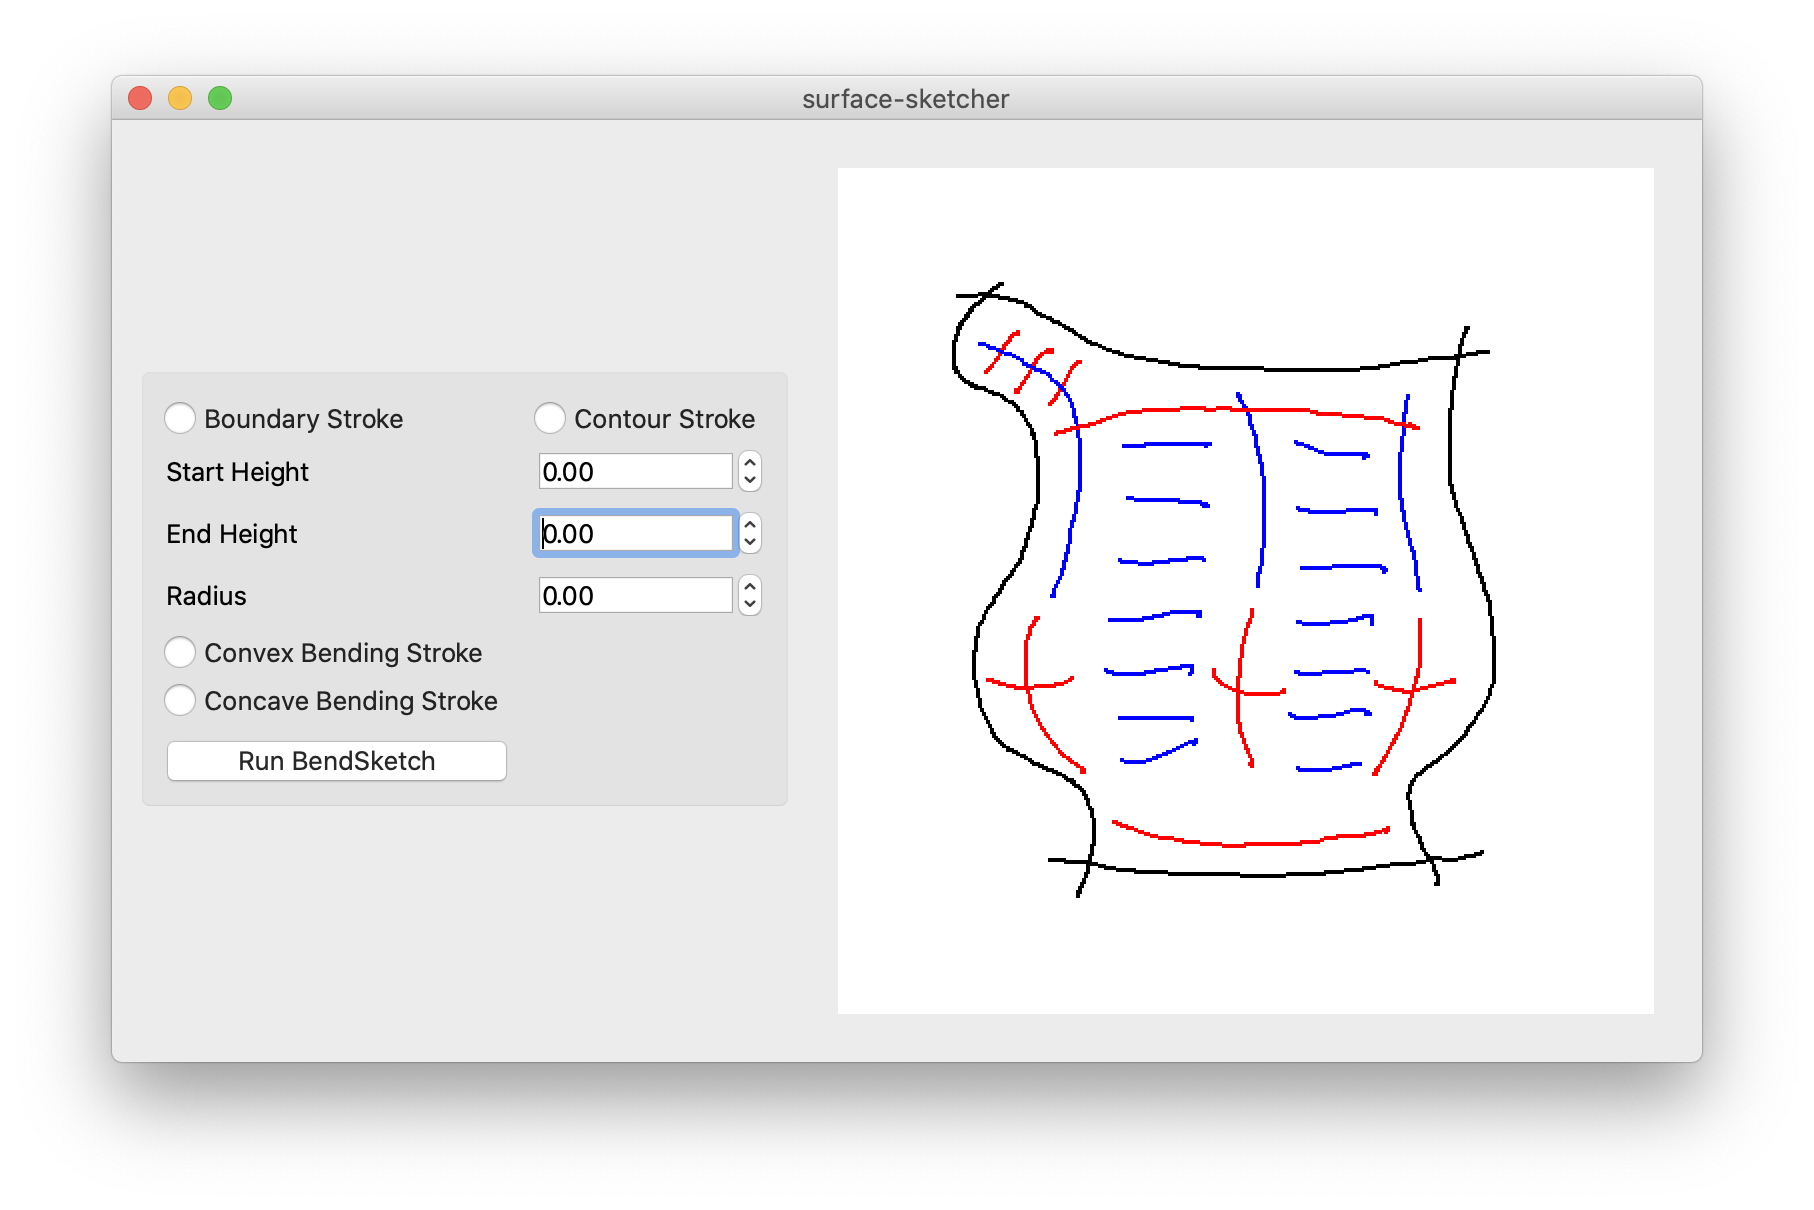
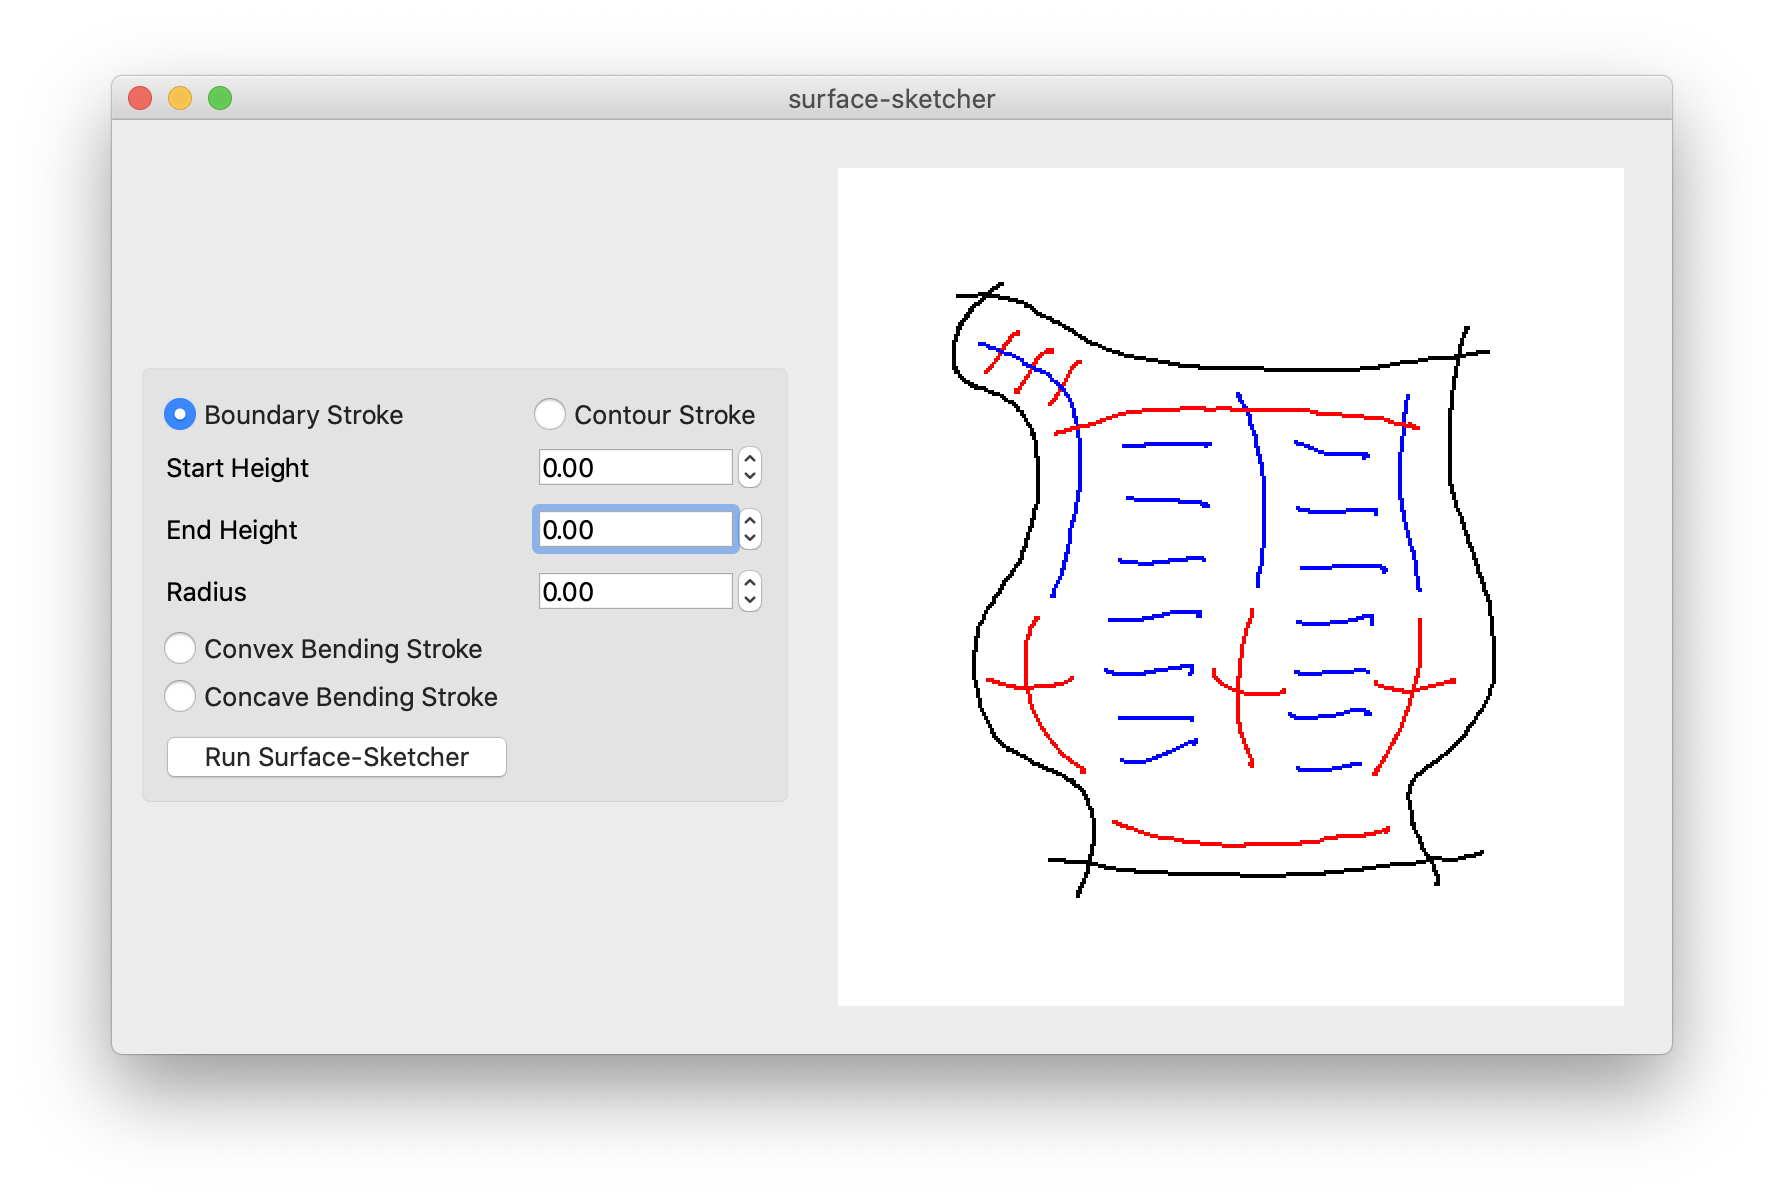
changed name to surface-sketcher

diff --git a/mainwindow.cpp b/mainwindow.cpp
@@ -29,7 +29,7 @@ MainWindow::~MainWindow()
 }
 
 
-void MainWindow::runBendsketch() {
+void MainWindow::runSurfaceSketcher() {
     Pipeline::runPipelineScribble(ui->scribbleArea->getSketchData());
 }
 
@@ -130,8 +130,8 @@ void MainWindow::createActions()
     setToConcave = new QAction(tr("&Concave Bending Stroke"), this);
     connect(setToConcave, SIGNAL(triggered()), ui->scribbleArea, SLOT(setStrokeTypeToConcaveBend()));
 
-    runBendsketchAction = new QAction(tr("&Run Bendsketch"), this);
-    connect(runBendsketchAction, SIGNAL(triggered()), this, SLOT(runBendsketch()));
+    runAction = new QAction(tr("&Run Surface Sketcher"), this);
+    connect(runAction, SIGNAL(triggered()), this, SLOT(runSurfaceSketcher()));
 }
 
 void MainWindow::createMenus()
@@ -153,11 +153,11 @@ void MainWindow::createMenus()
     helpMenu->addAction(aboutAct);
     helpMenu->addAction(aboutQtAct);
 
-    strokeMenu = new QMenu(tr("&Bendsketch Actions"), this);
+    strokeMenu = new QMenu(tr("&Actions"), this);
     strokeMenu->addAction(setToBoundary);
     strokeMenu->addAction(setToConvex);
     strokeMenu->addAction(setToConcave);
-    strokeMenu->addAction(runBendsketchAction);
+    strokeMenu->addAction(runAction);
 
     menuBar()->addMenu(fileMenu);
     menuBar()->addMenu(optionMenu);
@@ -233,12 +233,12 @@ void MainWindow::on_concave_stroke_clicked()
     ui->scribbleArea->setStrokeTypeToConcaveBend();
 }
 
-void MainWindow::on_run_bendsketch_clicked()
-{
-    Pipeline::runPipelineScribble(ui->scribbleArea->getSketchData());
-}
-
 void MainWindow::on_radius_valueChanged(double arg1)
 {
     ui->scribbleArea->setRadius(arg1);
+}
+
+void MainWindow::on_run_surface_sketcher_clicked()
+{
+    Pipeline::runPipelineScribble(ui->scribbleArea->getSketchData());
 }

diff --git a/src/pipeline/Triangulate.h b/src/pipeline/Triangulate.h
@@ -74,7 +74,7 @@ private:
     static std::vector<Eigen::Vector2f> makeBoundary(const std::vector<SegmentedStroke> &strokes, const std::set<int> invalid_strokes);
     static void addToBoundary(const SegmentedStroke &stroke, std::vector<Eigen::Vector2f> &boundary, bool met_at_idx_0_neighbor);
     static std::pair<std::vector<SegmentedStroke>, std::set<int>> segmentBoundaryStrokes(const std::vector<std::vector<Eigen::Vector2f>> &strokes);
-    static constexpr float FINENESS = .2; // this is the bound on the area of the largest triangle, .1 normally, .2 for coarse
+    static constexpr float FINENESS = .05; // this is the bound on the area of the largest triangle, .1 normally, .2 for coarse
     static constexpr float CRITERIA_PARAM = .001; //this is the bound on the length of the longest edge, .001 normally
     static constexpr float CONNECTION_THRESHOLD = .07; //.08
     static constexpr float SAME_POINT_THRESHOLD = .03; //.03

diff --git a/mainwindow.h b/mainwindow.h
@@ -29,7 +29,7 @@ private slots:
     void penColor();
     void penWidth();
     void about();
-    void runBendsketch();
+    void runSurfaceSketcher();
 
     void on_boundary_stroke_clicked();
 
@@ -43,9 +43,9 @@ private slots:
 
     void on_concave_stroke_clicked();
 
-    void on_run_bendsketch_clicked();
-
     void on_radius_valueChanged(double arg1);
+
+    void on_run_surface_sketcher_clicked();
 
 private:
     void createActions();
@@ -72,7 +72,7 @@ private:
     QAction *setToBoundary;
     QAction *setToConcave;
     QAction *setToConvex;
-    QAction *runBendsketchAction;
+    QAction *runAction;
 
     Ui::MainWindow *ui;
 };
